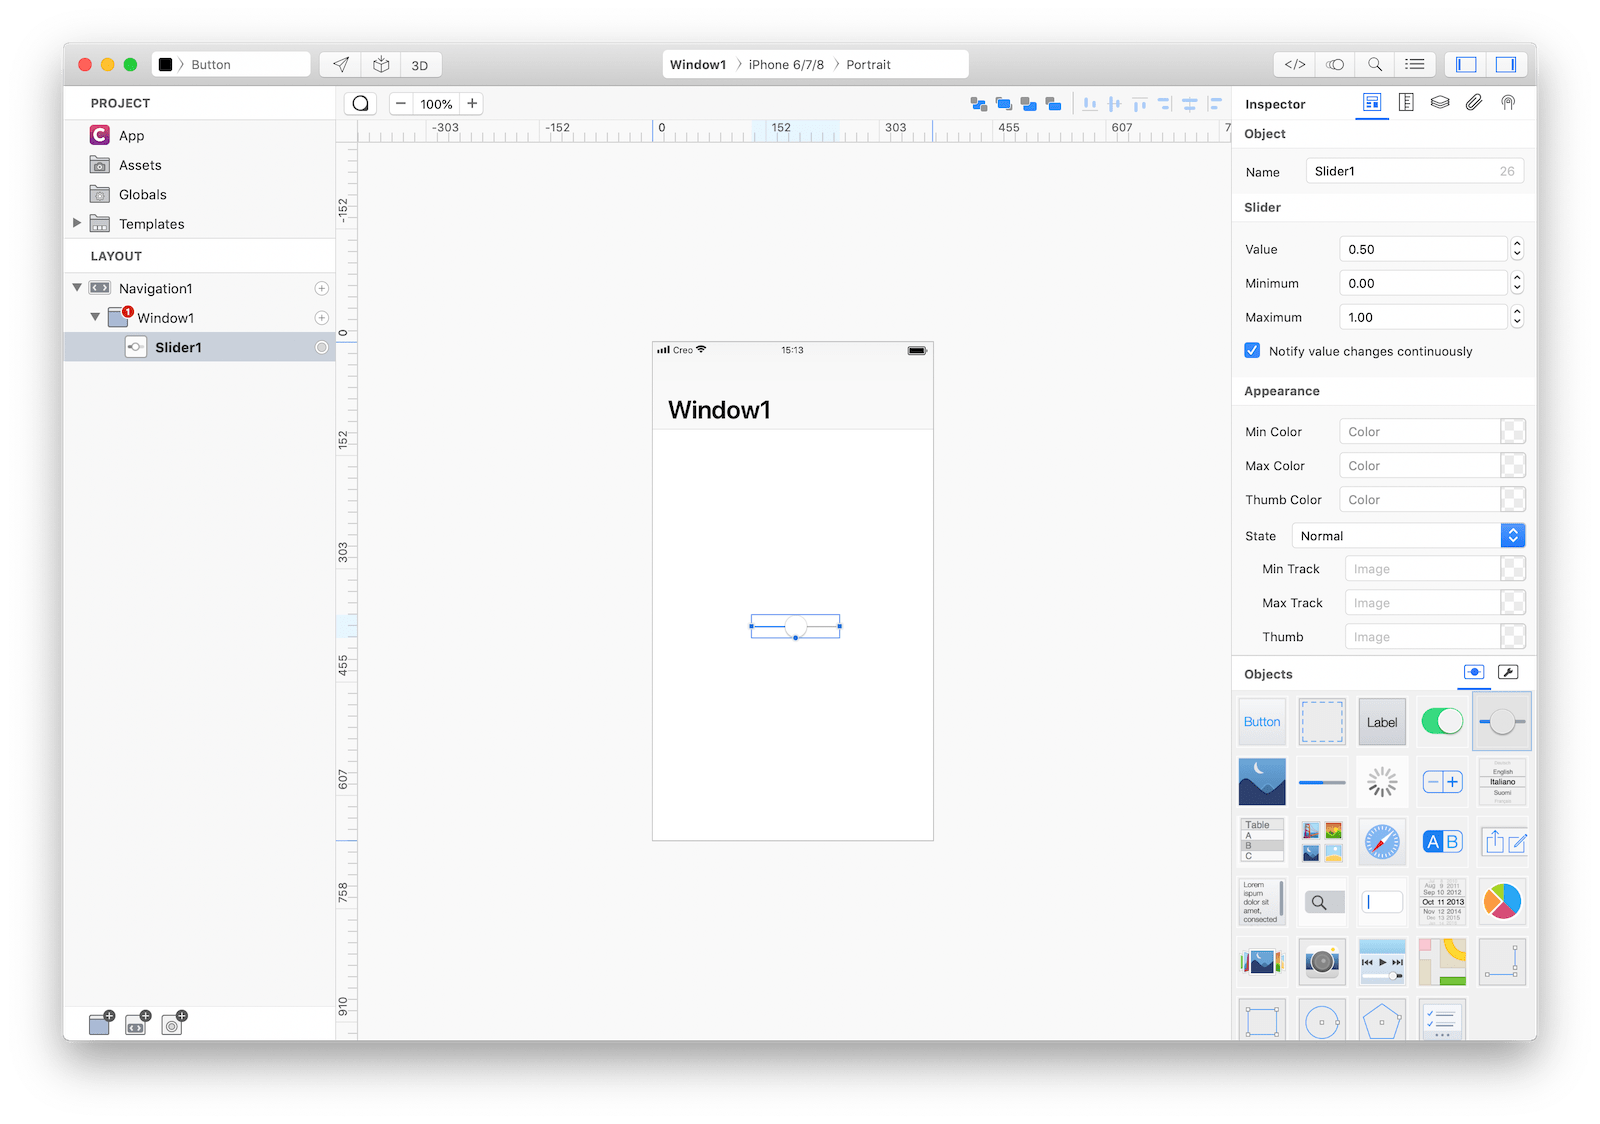
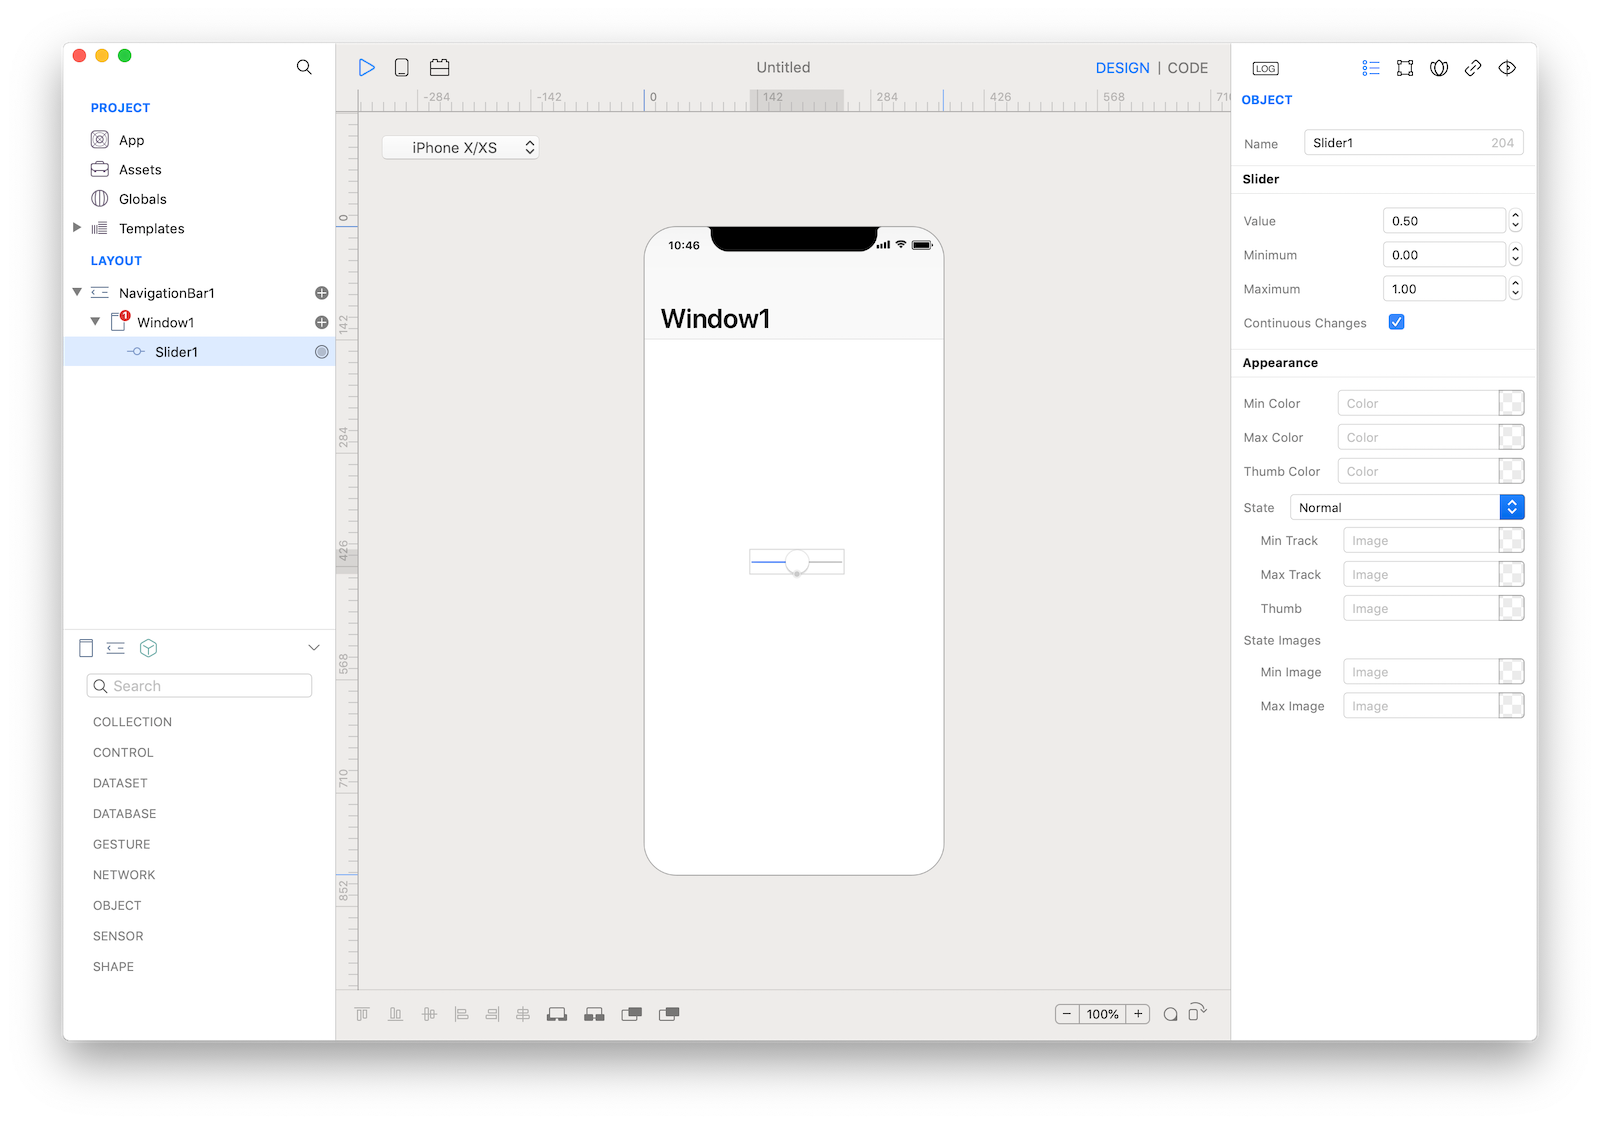
Updated Slider for Creo2

diff --git a/docs/creo/Slider.md b/docs/creo/Slider.md
@@ -1,6 +1,6 @@
 A slider is a horizontal track with a control called a thumb, which you can slide with your finger to move between a minimum and maximum value, such as screen brightness level or position during media playback. As a slider’s value changes, the portion of track between the minimum value and the thumb fills with color. A slider can optionally display left and right icons that illustrate the meaning of the minimum and maximum values.
 
-![Slider](../images/creo/slider1.png)
+![Slider](../images/creo2/slider1.png)
 
 ### Best practices
 * **Customize a slider’s appearance if it adds value.** A slider’s appearance, including track color, thumb image, and left and right icons, can be adjusted to blend with your app’s design and to communicate intent. A slider that adjusts image size, for example, could show a small image icon on the left and a large image icon on the right.
@@ -11,14 +11,14 @@ A slider is a horizontal track with a control called a thumb, which you can slid
 
 If you need to write code for Slider:
 
-3. Open the `Code Editor` (cmd + 6)
+3. Open the `Code Editor`
 4. Select the `Changed` item inside the `Events` area and write your custom code in the `Code Editor`
 
-![`Slider` inspector](../images/creo/slider2.png)
+![`Slider` inspector](../images/creo2/slider2.png)
 The inspector where the `Slider` class can be configured.
 
 ### Example
-1. Open the `Code Editor` (cmd + 6)
+1. Open the `Code Editor`
 2. Select the `Changed` item inside the `Events` area and write your custom code in the `Code Editor`
 ```
 Console.write("Slider value: \(self.value)")
